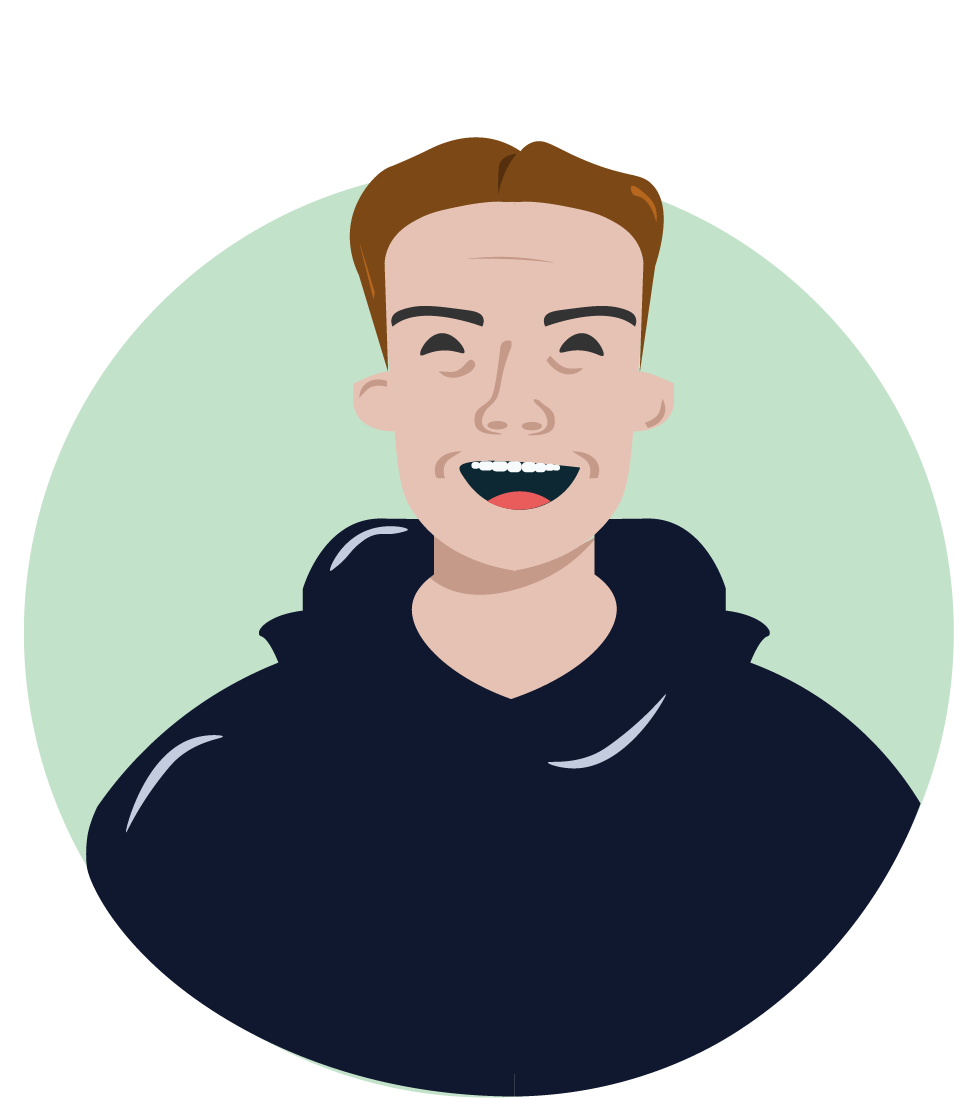
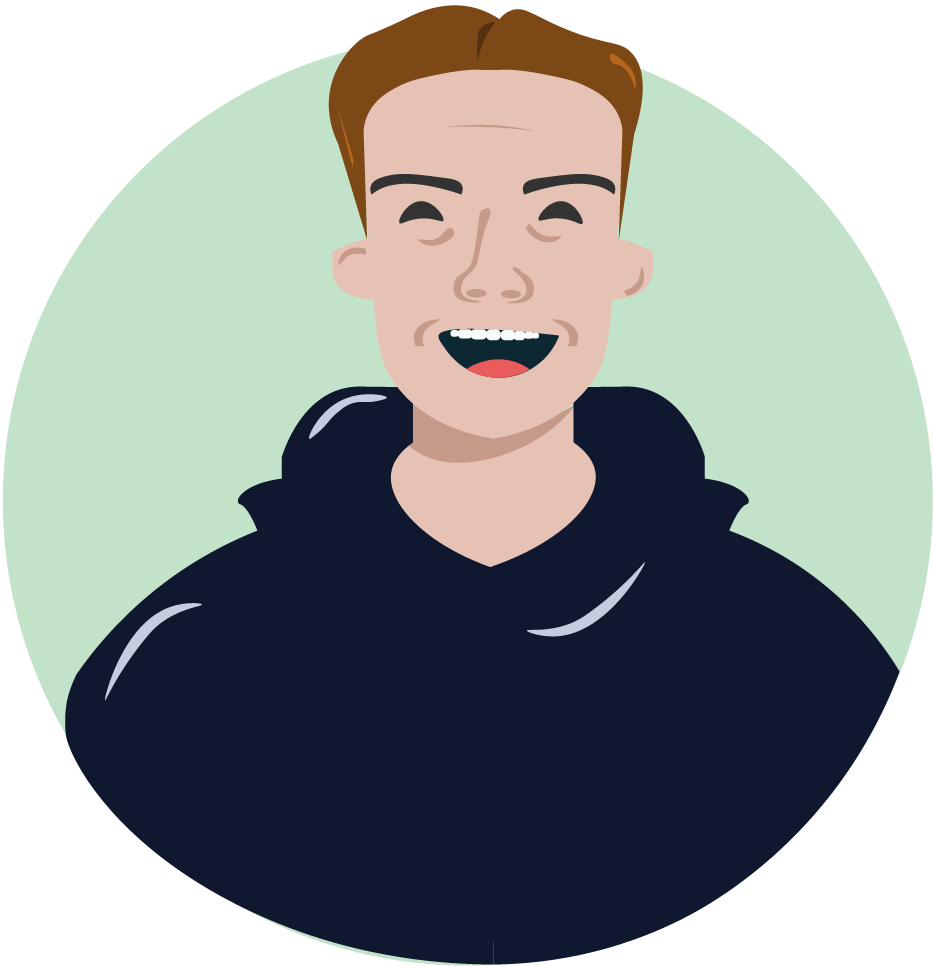
c

diff --git a/src/components/Bio.jsx b/src/components/Bio.jsx
@@ -24,21 +24,10 @@ import img1 from "../img/artguy.png";
 
 const Styled = styled.div`
 	.jumbotron {
-		// background-image: url(${jumboImg});
+		min-height: 100vh; 
 		background-color: transparent !important;
-		// background-attachment: fixed;
-		// background-repeat: no-repeat;
-		// background-position: right;
-		// background-size: cover;
-		height: 95vh; 
+	
 	}
-
-
-	#profile {
-		max-height: 400px;
-		max-width: 400px;
-	}
-
 	hr {
 		display: block;
 		height: 1px;
@@ -88,6 +77,10 @@ const Styled = styled.div`
 	
 		}
 
+	}
+
+	#profile {
+		max-width: 400px; 
 	}
 
 	.cards {
@@ -169,10 +162,11 @@ class Bio extends Component {
 					<Container>
 						<Row className="mb-4">
 							<Col md>
-								<div className="text-center">
+								<div className="text-center mx-auto d-block w-100">
 									<h1 className="title">Hello, I'm Nathan</h1>
 									<h3>Software Developer, Computer Science </h3>
 									<img
+										data-aos="zoom-in"
 										alt="profile"
 										id="profile"
 										src={me}
@@ -190,7 +184,11 @@ class Bio extends Component {
 									href="https://github.com/NathanielJenkins"
 									rel="noopener noreferrer"
 								>
-									<FontAwesomeIcon size="4x" icon={faGithub} />
+									<FontAwesomeIcon
+										data-aos="float-down"
+										size="4x"
+										icon={faGithub}
+									/>
 								</a>
 							</Col>
 							<Col xs>
@@ -200,7 +198,11 @@ class Bio extends Component {
 									href="https://www.linkedin.com/in/nathan-jenkins-boale-17b933129/"
 									rel="noopener noreferrer"
 								>
-									<FontAwesomeIcon size="4x" icon={faLinkedin} />
+									<FontAwesomeIcon
+										data-aos="float-down"
+										size="4x"
+										icon={faLinkedin}
+									/>
 								</a>
 							</Col>
 							<Col xs>
@@ -210,7 +212,11 @@ class Bio extends Component {
 									href="mailto:njboale@gmail.com"
 									rel="noopener noreferrer"
 								>
-									<FontAwesomeIcon size="4x" icon={faEnvelope} />
+									<FontAwesomeIcon
+										data-aos="float-down"
+										size="4x"
+										icon={faEnvelope}
+									/>
 								</a>
 							</Col>
 						</Row>

diff --git a/src/components/ProjectCard.jsx b/src/components/ProjectCard.jsx
@@ -37,7 +37,7 @@ class ProjectCard extends Component {
 	state = {};
 	render() {
 		return (
-			<Styled data-aos="fade-down">
+			<Styled data-aos="fade-up">
 				<Card className="shadow mb-4">
 					<Container>
 						<Row className="card-row">

diff --git a/src/App.js b/src/App.js
@@ -15,6 +15,7 @@ import AOS from "aos";
 import "aos/dist/aos.css";
 
 const Styled = styled.div`
+	overflow: hidden;
 	h1 {
 		font-family: "Helvetica Neue", sans-serif;
 		font-size: 54px;
